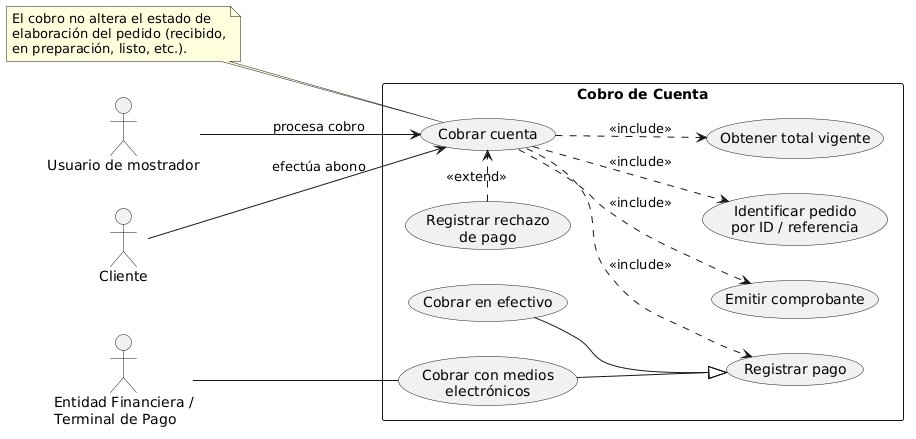
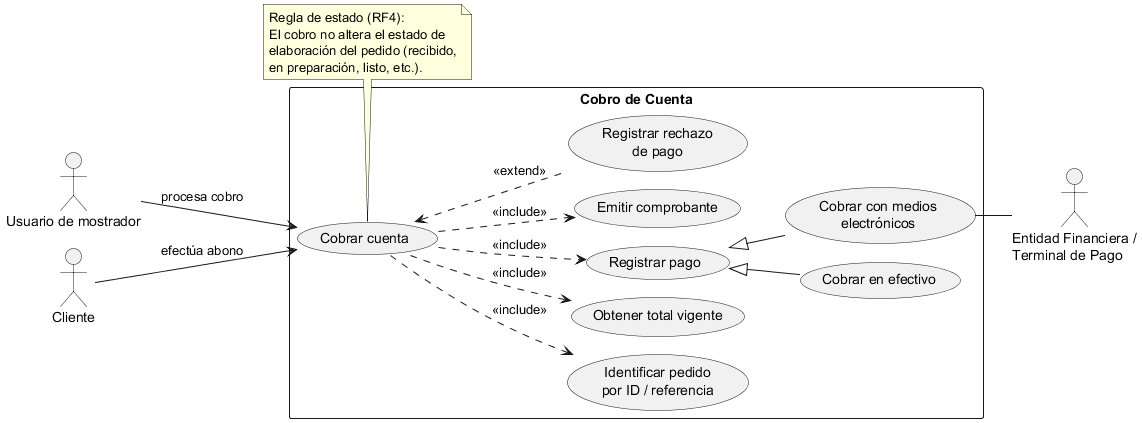
fix: alinear reglas de estado en diagramas de casos de uso (RC5)
Corrige la nota de cancelar pedido (RF8), agrega la regla de estado de
priorizar (RF9), unifica las notas de estado en los seis diagramas,
regenera los PNG, corrige el índice y alinea la lista de estados de
anexos/introduccion.md.

diff --git a/changelog.md b/changelog.md
@@ -58,6 +58,8 @@
 
 - [fix/doc-coord-rc17-rc18] A2 - Documentador: corregir hallazgos RC17 y RC18 de changelog.md. Issue: [#132](https://github.com/lucasmengarelli3/SistemaPedidos/issues/132) PR: [#133](https://github.com/lucasmengarelli3/SistemaPedidos/pull/133). @santimarM (Documentador y coordinador).
 
+- [fix/modelador-diag-casos-uso-rc5-rc13-rc14] A2 - Modelador: alinear reglas de estado en diagramas de casos de uso (RC5). Issue: [#134](https://github.com/lucasmengarelli3/SistemaPedidos/issues/134) PR: [#NNN](https://github.com/lucasmengarelli3/SistemaPedidos/pull/NNN). @santimarM (Documentador y coordinador; asume por contingencia la corrección del Modelador de diagramas de casos de uso).
+
 ## Release Actividad Obligatoria N°1 - 2026-09-23
 
 ### Added

diff --git a/anexos/introduccion.md b/anexos/introduccion.md
@@ -104,7 +104,7 @@ El sistema debe permitir registrar que un pedido listo fue entregado al cliente.
 ### Estados del pedido
 
 - recibido: permitir modificar, agregar/quitar productos, cancelar y priorizar.
-- en preparación: permitir priorizar y consultar; bloquear modificaciones.
+- en preparación: permitir cancelar, priorizar y consultar; bloquear modificaciones.
 - listo: permitir registrar entrega; bloquear modificaciones.
 - entregado: solo consulta.
 - cancelado: solo consulta histórica y no aparece en la lista de pedidos activos.

diff --git a/diagramas/02-casos-de-uso/diagramas_de_casos_de_uso.md b/diagramas/02-casos-de-uso/diagramas_de_casos_de_uso.md
@@ -5,4 +5,4 @@
 - [Caso de Uso 3 - Preparar pedido](./02-preparar-pedido.puml)
 - [Caso de Uso 4 - Cobrar cuenta](./02-cobrar-cuenta.puml)
 - [Caso de Uso 5 - Entregar pedido](./02-entregar-pedido.puml)
-- [Caso de Uso 6 - Entregar pedido](./02-cancelar-pedido.puml)
+- [Caso de Uso 6 - Cancelar pedido](./02-cancelar-pedido.puml)
